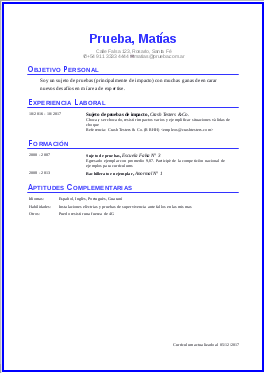
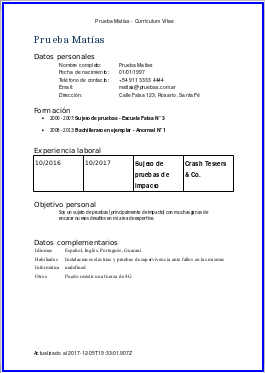
Agregado otro screenshot de prueba al selector de plantillas

diff --git a/app/controllers/asistente/exportar.js b/app/controllers/asistente/exportar.js
@@ -36,8 +36,11 @@ export default Ember.Controller.extend({
         }
         return datos_template;
       }).then(datos_template => {
-        return this.get('conversor')
-          .ejecutar('plantillas/cv2.docx', datos_template, ruta_destino)
+        return this.get('conversor').ejecutar(
+          this.get('plantilla.plantilla'),
+          datos_template,
+          ruta_destino
+        );
       }).then((ruta_seleccionada) => {
         this.set('mensaje', "Se ha generado el archivo " + ruta_seleccionada);
         this.set('guardando', false);

diff --git a/app/data.js b/app/data.js
@@ -9,13 +9,13 @@ export const pasos = [
 ];
 export const plantillas = [
   {
-    nombre: 'Inserte nombre de fantasía aquí',
+    nombre: 'Plantilla fea para probar cosas',
     imagen: 'plantillas/plantilla1.png',
-    plantilla: 'plantillas/cv1.docx'
+    plantilla: 'plantillas/cv.docx'
   },
   {
     nombre: 'Inserte nombre de fantasía aquí',
-    imagen: 'plantillas/plantilla1.png',
+    imagen: 'plantillas/plantilla2.png',
     plantilla: 'plantillas/cv2.docx'
   }
 ];
